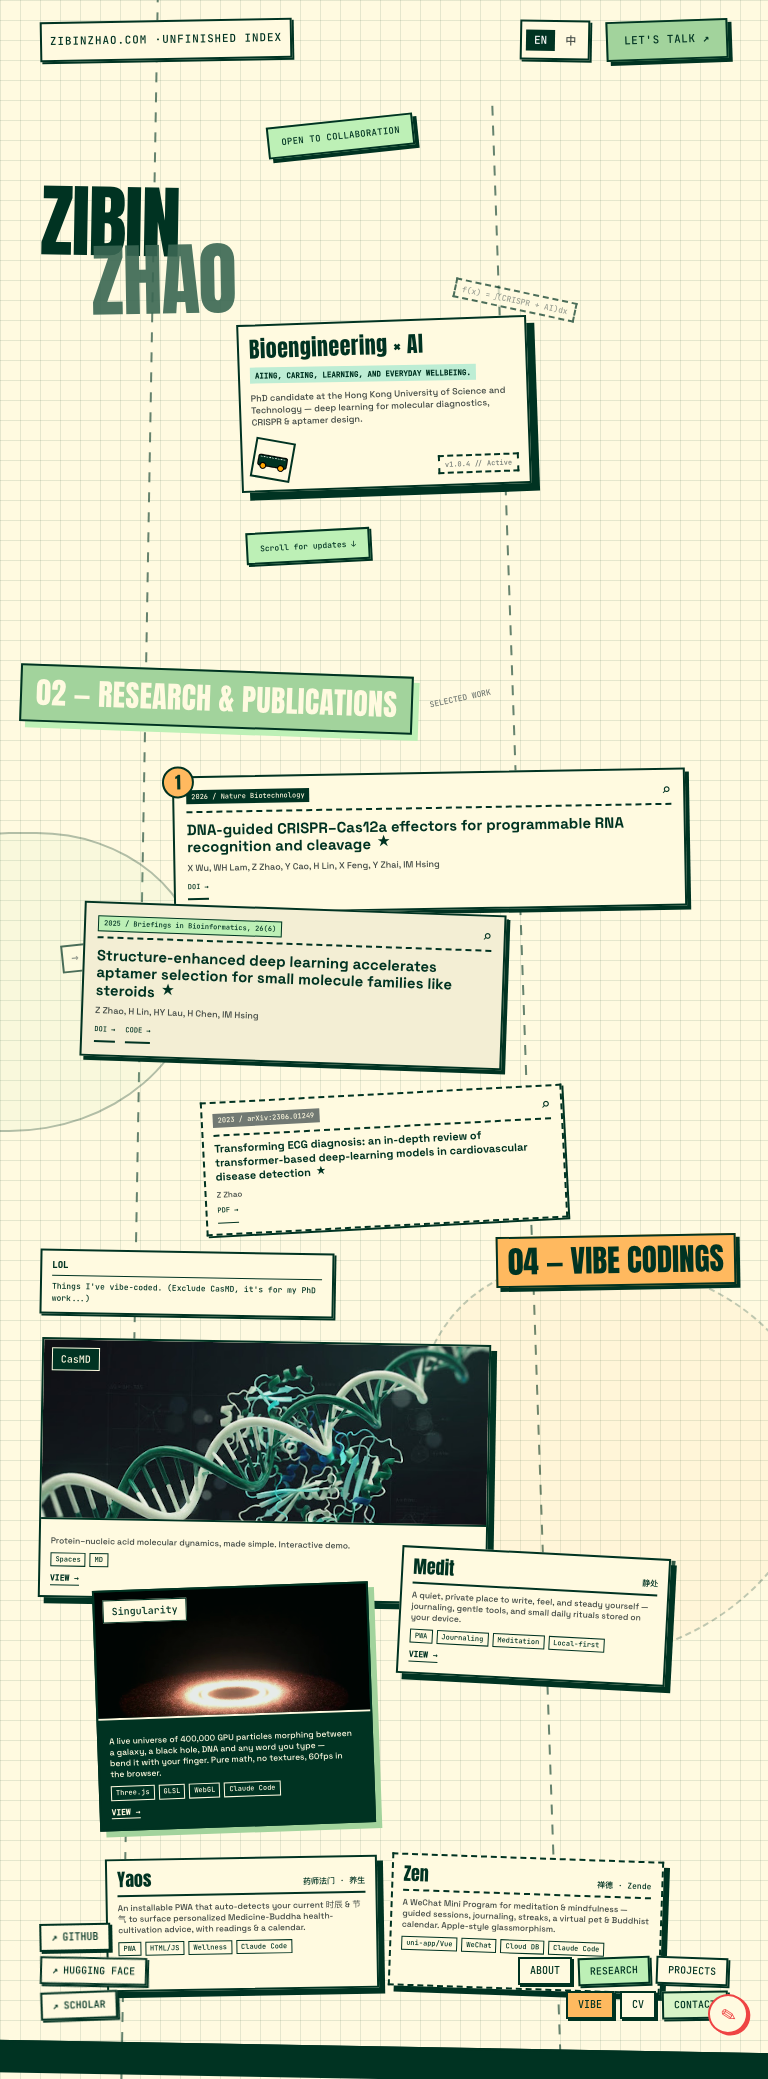
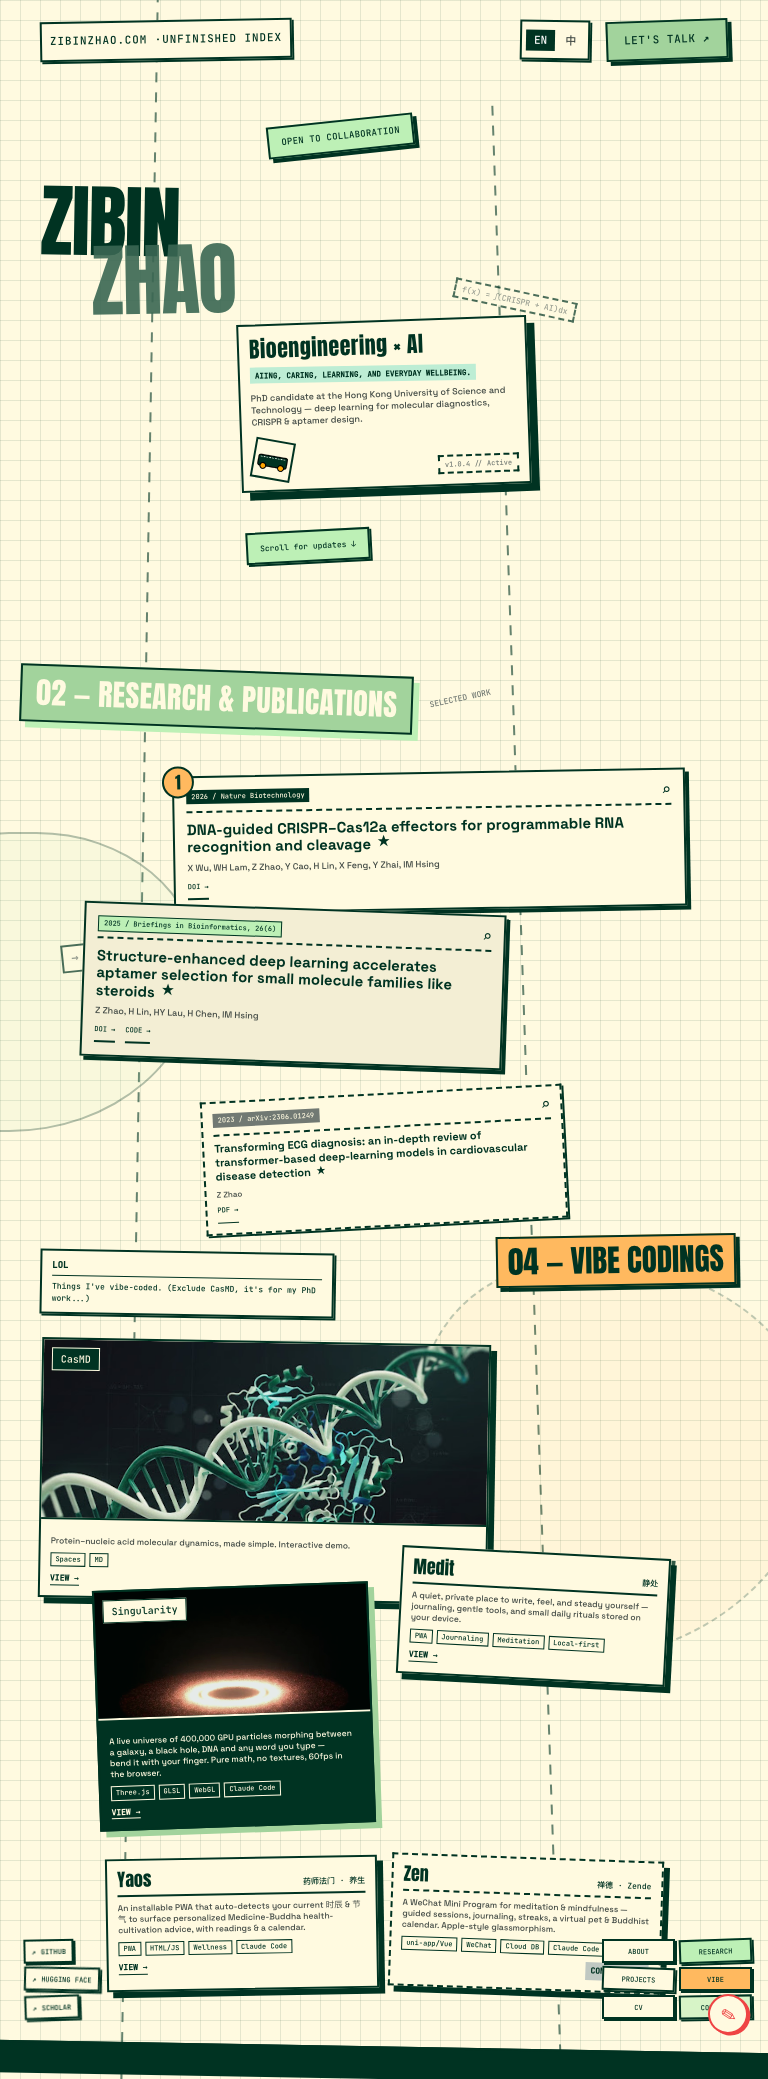
fix: compact canonical footer dock

Changed region(s): [[0.6875, 0.9235, 1.0, 0.9851], [0.0312, 0.9235, 0.1875, 0.9851]]

diff --git a/tests/e2e/stitch.spec.ts b/tests/e2e/stitch.spec.ts
@@ -190,6 +190,8 @@ test('canonical homepage matches the source-normalized vertical density and anch
     };
     return {
       documentHeight: document.documentElement.scrollHeight,
+      footerRoutes: box('.footer-routes'),
+      footerSocials: box('.footer-socials'),
       hero: box('.stitch-hero'),
       heroCard: box('.hero-card'),
       research: box('#research'),
@@ -252,6 +254,20 @@ test('canonical homepage matches the source-normalized vertical density and anch
   expect(yaos.left).toBeLessThanOrEqual(125);
   expect(zen.left).toBeGreaterThanOrEqual(375);
   expect(zen.left).toBeLessThanOrEqual(415);
+  expect(geometry.footerSocials.left).toBeGreaterThanOrEqual(20);
+  expect(geometry.footerSocials.left).toBeLessThanOrEqual(30);
+  expect(geometry.footerSocials.width).toBeGreaterThanOrEqual(70);
+  expect(geometry.footerSocials.width).toBeLessThanOrEqual(100);
+  expect(geometry.footerSocials.left + geometry.footerSocials.width).toBeLessThanOrEqual(120);
+  expect(geometry.footerRoutes.left).toBeGreaterThanOrEqual(590);
+  expect(geometry.footerRoutes.left).toBeLessThanOrEqual(610);
+  expect(geometry.footerRoutes.width).toBeGreaterThanOrEqual(145);
+  expect(geometry.footerRoutes.width).toBeLessThanOrEqual(155);
+  expect(geometry.footerRoutes.height).toBeGreaterThanOrEqual(72);
+  expect(geometry.footerRoutes.height).toBeLessThanOrEqual(90);
+  await expect(page.locator('.footer-socials a')).toHaveCount(3);
+  await expect(page.locator('.footer-routes a')).toHaveCount(6);
+  for (const anchor of await page.locator('.footer-socials a, .footer-routes a').all()) await expect(anchor).toBeVisible();
 });
 
 test('mobile without JavaScript keeps English content and every ordinary destination', async ({ browser }, testInfo) => {

diff --git a/.superpowers/sdd/task-8-report.md b/.superpowers/sdd/task-8-report.md
@@ -7,6 +7,7 @@
 - `tests/e2e/stitch.spec.ts` runs only in `canonical-768`, `desktop`, and `mobile`. Final inventory: 78 discovered, 74 passed, 4 intentional project-specific skips.
 - All seven routes return 200 with one `h1`, semantic shell landmarks, no duplicate IDs, no console/page errors, no horizontal overflow, visible fixed controls, and end content clear of the runtime dock.
 - Canonical homepage density was refined from a 3716px runtime document to 2157–2178px during final measurement. The review artifact is exactly 768×2079, matching the normalized 591×1600 source ratio while keeping the runtime footer fixed.
+- Canonical footer controls now match the compact source footprint: the social stack is constrained near x=24/right≤120 and the 150px route dock renders as two columns by three rows near x=602–752. The draw control and non-canonical breakpoints are unchanged.
 
 ## RED / GREEN
 
@@ -15,6 +16,7 @@
 3. RED: forced `/stitch/casmd.png` failure had no retained contract. GREEN: request abort reveals `.vibe-image-fallback` and preserves the CasMD title, description, and action.
 4. RED: canonical runtime document height was 3716px, with hero/research/Vibe at y=120/979/2033 and section heights 819/926/1417. GREEN: source-density contract passes with hero bottom 630, research y=670 and h≈565, Vibe y≈1235 and h≈743, runtime document ≈2160px, and 2079px canonical artifact.
 5. RED: normalized horizontal overlay showed hero card w346, banner w477, research cards w574/475/408, and an over-wide Singularity/lower pair. GREEN: final ranges are hero card x236 w296; banner w395; research w515/427/369; Vibe heading w241; note w295; Singularity x≈92 w≈285; Medit w≈276; Yaos/Zen x≈105/388 w≈274/276.
+6. RED follow-up: canonical social controls began at x≈39 and route controls formed a wide three-column/two-row cluster starting near x≈519. GREEN: retained geometry asserts social left 20–30/right≤120 and route left 590–610, width 145–155, height 72–90, with all 3 social and 6 route anchors visible.
 
 ## Production-preview browser coverage
 
@@ -39,6 +41,8 @@ Tracked artifacts:
 - `artifacts/stitch/prompts-390-full.png` — 390×8865
 
 The canonical artifact retains the 15% left and right-24% guide lines, asymmetric wordmark/card/formula/scroll grouping, green research banner and overlapping 85/70/60 roles, orange Vibe heading, LOL note, overlapping CasMD/Singularity/Medit composition, centered Yaos/Zen pair, and bottom footer dock. Animations are disabled only while capturing via reduced motion; normal-mode motion and shared transform ownership are unchanged and retained tests pass.
+
+At 701–1100px only, canonical footer pills use a 24px minimum height, compact 7px technical labels, and reduced padding/gaps. Socials begin near x=24; the route dock is a 150px two-column grid with three rows and preserves all fixed pointer/interaction behavior. The 390px and >1100px footer layouts are unchanged.
 
 The fixed footer appeared across the research banner in an ordinary 768×1024 full-page capture. The artifact test now raises the capture viewport to the normalized 2079px source height and uses a normal screenshot, so the runtime remains fixed while the artifact dock appears once at the document bottom.
 
